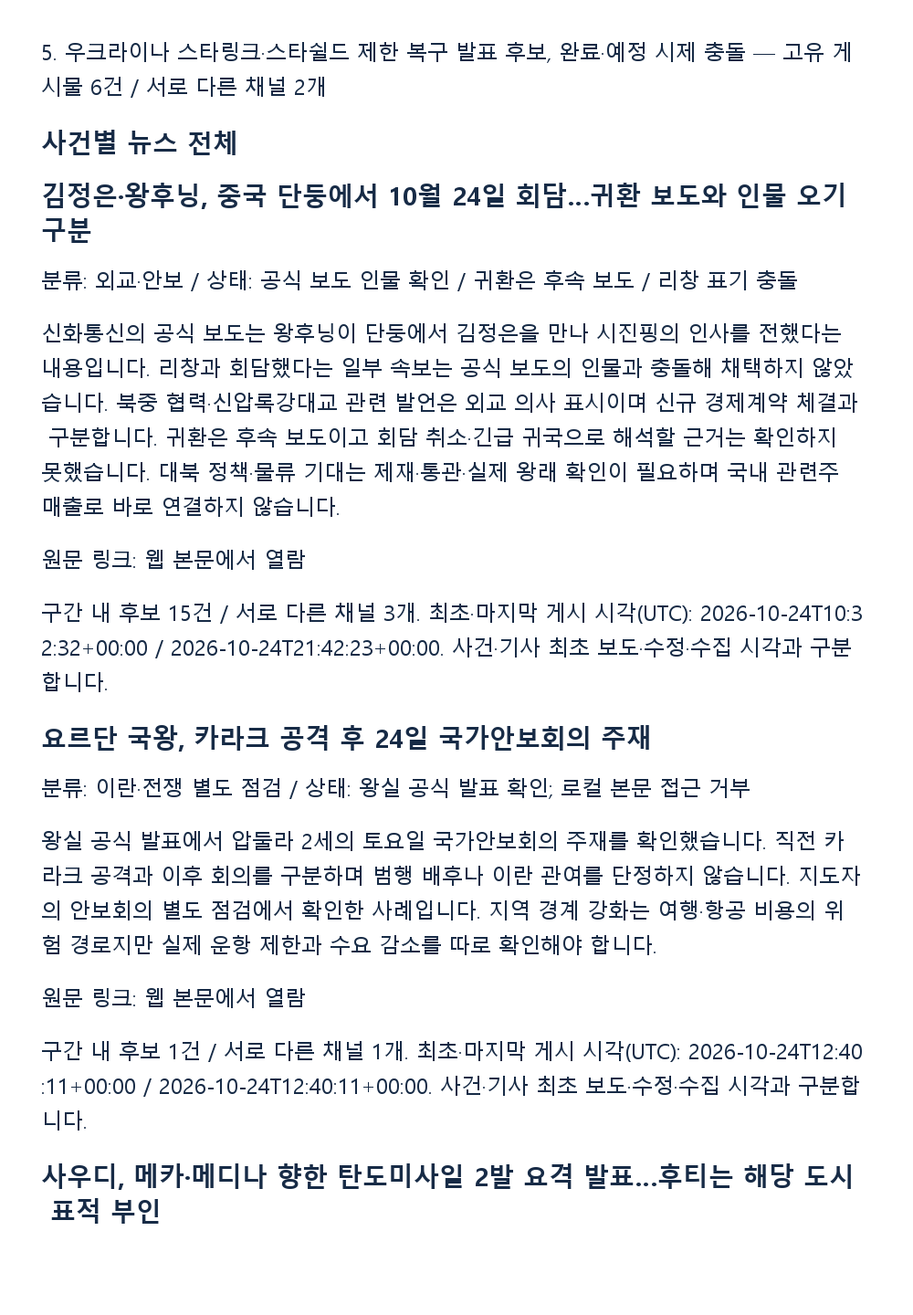
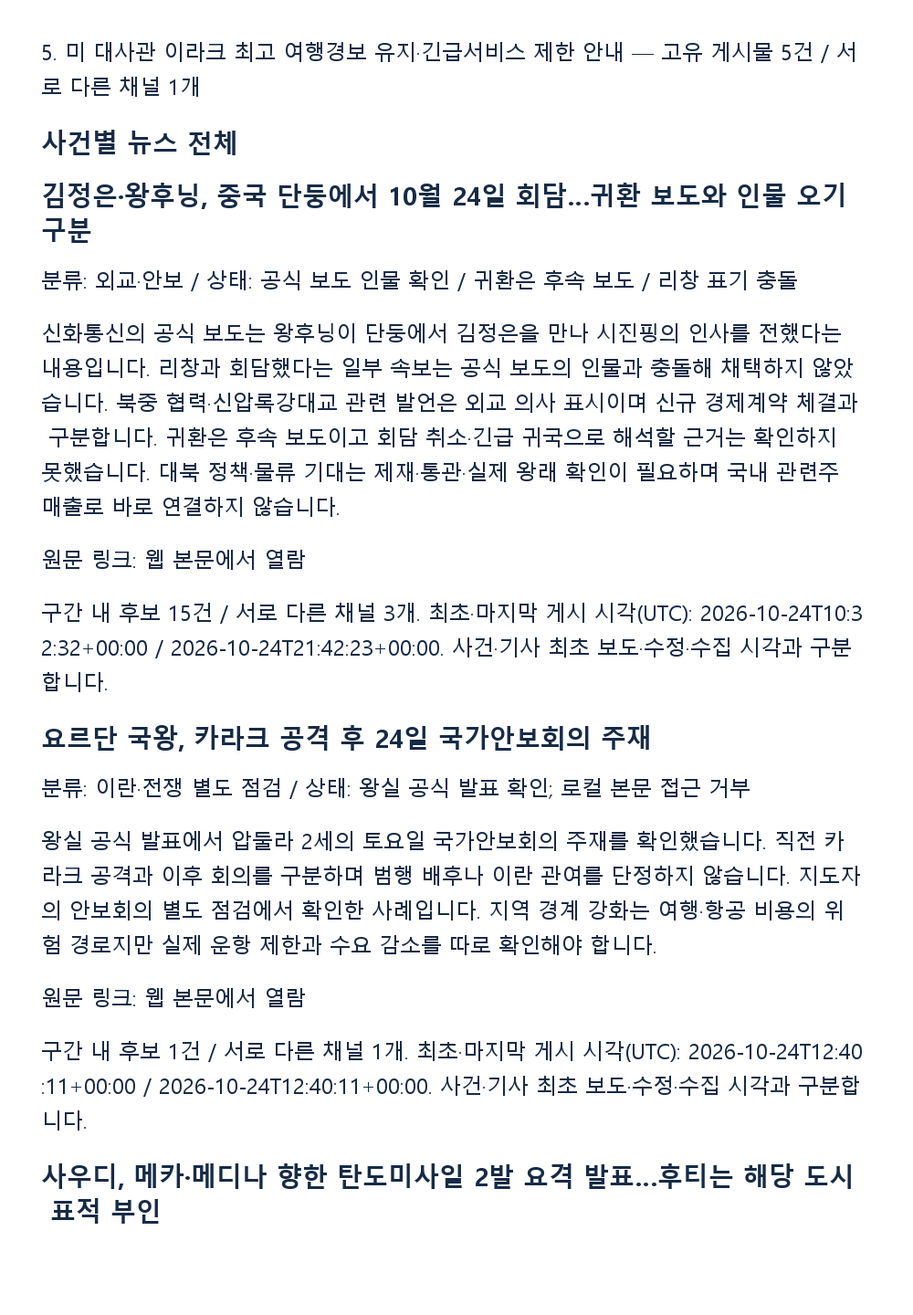
Keep morning repetition rankings scoped to individual events

Changed region(s): [[0.062, 0.0312, 0.93, 0.0938]]

diff --git a/news/2026-10-25-0700/index.html b/news/2026-10-25-0700/index.html
@@ -1,1 +1,1 @@
-<!doctype html><html lang="ko"><meta charset="utf-8"><meta name="viewport" content="width=device-width,initial-scale=1"><title>10월 25일 아침 증시 뉴스</title><style>body{font:17px/1.8 sans-serif;background:#f2f5f9;color:#172b46;margin:0}main{max-width:920px;margin:auto;padding:24px;background:white}p,a,h1,h2,h3{overflow-wrap:anywhere}h1,h2,h3{line-height:1.4}h2{border-top:2px solid #ced9e7;padding-top:25px;margin-top:36px}a{color:#145ca5}img{max-width:100%;height:auto}nav{padding:18px;background:#eaf1fb}small{color:#61718a}</style><main><nav><a href="schedule.html">미국 섹터·날짜순 일정</a> · <a href="../../#news">당일 체크 · 당일 뉴스</a></nav><article id="report"><h1>10월 25일 아침 증시 뉴스</h1><p>분석 구간: 2026-10-24 19:00 초과~2026-10-25 07:00 이하 KST</p><p>작성 시각: 2026-10-25T07:12:48+09:00</p><p>미국 섹터·날짜순 일정 별도 보고서: <a href="https://jsinvest.github.io/dashboard/news/2026-10-25-0700/schedule.html">원문 열기</a></p><h2>핵심 변화</h2><p>북중 회담·요르단 안보회의, 사우디 요격과 후티의 상반된 표적 주장, ESMO 임상 결과와 UN 행사 연기를 정리했습니다. 풍산 목표주가 하향은 이달 초 자료 재안내이며 삼성전자 배당은 가정에 따른 전망입니다.</p><h2>수집·검증 범위</h2><p>설정된 10개 채널 중 9개 접근 가능, 구간 내 고유 게시물 161개를 검토했습니다. 나머지 1개는 두 접근 경로 모두 연락 페이지여서 본문 확인 불가입니다. 원문 URL 30개 중 HTTP 응답 27개·실패 3개이며 응답 성공이 본문·사실 검증 완료를 뜻하지 않습니다. 공적 원문도 접근 거부·짧은 제목·점검 화면을 별도 기록했습니다. 미검토 일정 후보 2,496건을 미검토 상태로 보존합니다. 확인된 일정은 아래와 같고 전체 검토 완료를 뜻하지 않으며, 사용자 요청에 따라 발송을 진행합니다.</p><h2>반복 빈도 TOP5</h2><p>고유 게시물 ID 기준 1회이며 서로 다른 채널 수를 별도 표시합니다. 같은 게시물에 여러 사건이 있으면 사건별로 집계하므로 사건 건수를 더해 전체 게시물 수로 해석하지 않습니다. 보도 빈도는 사실 확정이나 영향 크기와 다릅니다. 넓은 투자 주제 묶음은 순위에서 제외했습니다.</p><p>1. 김정은·왕후닝, 중국 단둥에서 10월 24일 회담…귀환 보도와 인물 오기 구분 — 고유 게시물 15건 / 서로 다른 채널 3개</p><p>2. 미 항모 조지워싱턴 재무장 보도·트럼프 이란 추가 공격 가능성 발언 — 고유 게시물 12건 / 서로 다른 채널 3개</p><p>3. 프랑스 전역 시위·체포 보도, 초기와 후속 집계 구분 — 고유 게시물 7건 / 서로 다른 채널 1개</p><p>4. 예멘 아덴에서 미사일 공격 보도…해안경비대 본부와 해군기지 표적 설명 충돌 — 고유 게시물 6건 / 서로 다른 채널 1개</p><p>5. 우크라이나 스타링크·스타쉴드 제한 복구 발표 후보, 완료·예정 시제 충돌 — 고유 게시물 6건 / 서로 다른 채널 2개</p><h2>사건별 뉴스 전체</h2><h3>김정은·왕후닝, 중국 단둥에서 10월 24일 회담…귀환 보도와 인물 오기 구분</h3><p>분류: 외교·안보 / 상태: 공식 보도 인물 확인 / 귀환은 후속 보도 / 리창 표기 충돌</p><p>신화통신의 공식 보도는 왕후닝이 단둥에서 김정은을 만나 시진핑의 인사를 전했다는 내용입니다. 리창과 회담했다는 일부 속보는 공식 보도의 인물과 충돌해 채택하지 않았습니다. 북중 협력·신압록강대교 관련 발언은 외교 의사 표시이며 신규 경제계약 체결과 구분합니다. 귀환은 후속 보도이고 회담 취소·긴급 귀국으로 해석할 근거는 확인하지 못했습니다. 대북 정책·물류 기대는 제재·통관·실제 왕래 확인이 필요하며 국내 관련주 매출로 바로 연결하지 않습니다.</p><p>원문: <a href="https://www.yonhapnewstv.co.kr:443/news/AKR20261024204711JQW">원문 열기</a> | <a href="https://www.newscj.com/news/articleView.html?idxno=3442815">원문 열기</a> | <a href="https://www.yonhapnewstv.co.kr:443/news/AKR20261024204841auj">원문 열기</a> | <a href="https://www.yonhapnewstv.co.kr:443/news/AKR20261024202630NQl">원문 열기</a> | <a href="https://www.xinhuanet.com/politics/20261024/49bc81b841874e88a46e10ca01faa4c1/c.html">원문 열기</a></p><p>구간 내 후보 15건 / 서로 다른 채널 3개. 최초·마지막 게시 시각(UTC): 2026-10-24T10:32:32+00:00 / 2026-10-24T21:42:23+00:00. 사건·기사 최초 보도·수정·수집 시각과 구분합니다.</p><h3>요르단 국왕, 카라크 공격 후 24일 국가안보회의 주재</h3><p>분류: 이란·전쟁 별도 점검 / 상태: 왕실 공식 발표 확인; 로컬 본문 접근 거부</p><p>왕실 공식 발표에서 압둘라 2세의 토요일 국가안보회의 주재를 확인했습니다. 직전 카라크 공격과 이후 회의를 구분하며 범행 배후나 이란 관여를 단정하지 않습니다. 지도자의 안보회의 별도 점검에서 확인한 사례입니다. 지역 경계 강화는 여행·항공 비용의 위험 경로지만 실제 운항 제한과 수요 감소를 따로 확인해야 합니다.</p><p>원문: <a href="https://www.rhc.jo/en/news/king-chairs-national-security-council-meeting-on-karak-attack">원문 열기</a></p><p>구간 내 후보 1건 / 서로 다른 채널 1개. 최초·마지막 게시 시각(UTC): 2026-10-24T12:40:11+00:00 / 2026-10-24T12:40:11+00:00. 사건·기사 최초 보도·수정·수집 시각과 구분합니다.</p><h3>사우디, 메카·메디나 향한 탄도미사일 2발 요격 발표…후티는 해당 도시 표적 부인</h3><p>분류: 이란·전쟁 별도 점검 / 상태: 사우디 발표와 후티 부인; 독립 피해 검증 미완료</p><p>사우디 민방위는 요격 뒤 잔해가 여러 지역에 떨어졌다고 발표했고, 후티 측은 메카·메디나를 겨냥했다는 설명을 부인했습니다. 요격 발표와 공격자의 표적 설명을 병기하며 어느 쪽 주장도 독립 피해 조사로 대체하지 않습니다. 정유·항공·운송보험 경로에 영향을 줄 수 있으나 에너지 실제 공급 차질 규모는 확인되지 않았습니다. 긴장 완화·운항 정상화 시 위험 프리미엄이 반대로 줄 수 있습니다.</p><p>원문: <a href="https://www.spa.gov.sa/en/N2709301">원문 열기</a> | <a href="https://mobil.aa.com.tr/en/middle-east/houthis-claim-to-have-struck-saudi-airports-oil-facilities-with-missiles-drones/4099758">원문 열기</a></p><p>구간 내 후보 4건 / 서로 다른 채널 1개. 최초·마지막 게시 시각(UTC): 2026-10-24T17:41:46+00:00 / 2026-10-24T19:02:15+00:00. 사건·기사 최초 보도·수정·수집 시각과 구분합니다.</p><h3>후티, 리야드 공항 공격 주장·추가 공격 경고…실제 피해 미확인</h3><p>분류: 이란·전쟁 별도 점검 / 상태: 후티 당사자 주장 / 피해 확인 불가</p><p>리야드 공항을 겨냥했다는 주장과 이후 이용 자제·추가 공격 경고를 같은 사건의 후속으로 묶었습니다. 경고가 실제 새 타격이나 공항 완전 파괴를 뜻하지 않습니다. 공항 터미널 변경 공지는 별도 일정이며 정상 운항 재개 증거가 아닙니다. 항공·관광 영향은 공항과 항공사의 실제 운항 확인이 조건입니다.</p><p>원문: <a href="https://mobil.aa.com.tr/en/middle-east/houthis-claim-to-have-struck-saudi-airports-oil-facilities-with-missiles-drones/4099758">원문 열기</a> | <a href="https://m.aa.com.tr/en/middle-east/riyadh-airport-announces-new-terminal-arrangements-for-domestic-international-flights/4099869">원문 열기</a></p><p>구간 내 후보 3건 / 서로 다른 채널 1개. 최초·마지막 게시 시각(UTC): 2026-10-24T19:02:32+00:00 / 2026-10-24T21:15:11+00:00. 사건·기사 최초 보도·수정·수집 시각과 구분합니다.</p><h3>후티, 얀부 석유시설·담맘 등 사우디 표적 공격 주장</h3><p>분류: 이란·전쟁 별도 점검 / 상태: 당사자 공격 주장 / 생산 차질 미확인</p><p>얀부·담맘·나즈란·카미스무샤이트 관련 주장을 위치별 원문 후보로 보존했습니다. 메카·메디나 요격 및 리야드 공항 사건과 별도입니다. 아람코 시설 실제 생산·수출 중단이나 타격 성공 규모는 독립 검증하지 못했습니다. 정유·해운의 공급 위험 경로는 있으나 주장만으로 생산 손실을 수치화하지 않습니다.</p><p>원문: <a href="https://mobil.aa.com.tr/en/middle-east/houthis-claim-to-have-struck-saudi-airports-oil-facilities-with-missiles-drones/4099758">원문 열기</a></p><p>구간 내 후보 4건 / 서로 다른 채널 2개. 최초·마지막 게시 시각(UTC): 2026-10-24T11:15:39+00:00 / 2026-10-24T19:03:02+00:00. 사건·기사 최초 보도·수정·수집 시각과 구분합니다.</p><h3>예멘 아덴에서 미사일 공격 보도…해안경비대 본부와 해군기지 표적 설명 충돌</h3><p>분류: 이란·전쟁 별도 점검 / 상태: 기관 인용 보도와 후티 주장 / 독립 원문 확인 미완료</p><p>예멘 내무부 인용 속보의 미사일 3발·해안경비대 본부 설명과 후티의 해군기지 공격 주장을 구분했습니다. 사우디 본토 공격과 합산하지 않았고 사상자·피해 규모는 확정하지 않았습니다. 홍해 항로·보험료와 수송 우회가 시장 경로이며 실제 선박 운항·보험 조건을 확인해야 합니다.</p><p>구간 내 후보 6건 / 서로 다른 채널 1개. 최초·마지막 게시 시각(UTC): 2026-10-24T14:00:04+00:00 / 2026-10-24T15:57:44+00:00. 사건·기사 최초 보도·수정·수집 시각과 구분합니다.</p><h3>미 항모 조지워싱턴 재무장 보도·트럼프 이란 추가 공격 가능성 발언</h3><p>분류: 이란·전쟁 별도 점검 / 상태: 취재 보도 / 당사자 발언 / 공격 결정 미확인</p><p>WSJ의 함상 취재 보도는 재무장과 가능한 작전 준비에 관한 내용입니다. 트럼프의 추가 공격 가능성 발언과 최종 공격 결정은 다르므로 공격 승인·개시를 확정하지 않습니다. 이란 대통령의 협상·미국 책임 발언과 이스라엘 측 위협 평가는 당사자 입장입니다. 이번 구간의 방문 축소·회담 취소·긴급 귀국은 새로 확정할 원문을 찾지 못했으며 과거 뉴욕 방문 축소 기사를 오늘 사건으로 재사용하지 않았습니다. 유가·방산·해운 경로는 공식 결정과 실제 타격·공급 차질이 확인 조건입니다.</p><p>원문: <a href="https://finance.yahoo.com/video/aboard-uss-george-washington-rearms-093000274.html">원문 열기</a></p><p>구간 내 후보 12건 / 서로 다른 채널 3개. 최초·마지막 게시 시각(UTC): 2026-10-24T11:15:39+00:00 / 2026-10-24T20:28:04+00:00. 사건·기사 최초 보도·수정·수집 시각과 구분합니다.</p><h3>러시아 옴스크 합성고무 공장 화재·드론 공격 보도</h3><p>분류: 해외 사건 / 상태: 속보·영상 주장 / 원인·피해 미확인</p><p>옴스키카우추크 공장 화재 후보는 이전 톨리야티 사건과 분리했습니다. 드론 공격 원인·실제 MTBE 생산 차질·러시아 전체 공급 손실은 독립 확인 미완료입니다. 합성고무·연료 첨가제 가격 경로는 있으나 생산능력 비중을 실제 손실로 바꾸지 않습니다.</p><p>구간 내 후보 3건 / 서로 다른 채널 2개. 최초·마지막 게시 시각(UTC): 2026-10-24T13:51:45+00:00 / 2026-10-24T15:49:55+00:00. 사건·기사 최초 보도·수정·수집 시각과 구분합니다.</p><h3>프랑스 전역 시위·체포 보도, 초기와 후속 집계 구분</h3><p>분류: 해외 사건 / 상태: 속보 후보 / 규모 독립 검증 미완료</p><p>초기 135명과 후속 약 1천명 체포 수치는 같은 날 갱신된 집계 후보로 보존했고 더하지 않았습니다. 41만명·289개 집회라는 규모도 원문 독립 대조 미완료입니다. 정치·소비·운송 위험 경로를 점검하되 시위 보도를 국내 증시 방향의 단독 근거로 사용하지 않습니다.</p><p>구간 내 후보 7건 / 서로 다른 채널 1개. 최초·마지막 게시 시각(UTC): 2026-10-24T12:09:25+00:00 / 2026-10-24T17:59:04+00:00. 사건·기사 최초 보도·수정·수집 시각과 구분합니다.</p><h3>UN 세계데이터포럼, 리야드 11월 9~12일 개최에서 2027년으로 연기</h3><p>분류: 일정 변경 / 상태: UN 공식 페이지 확인</p><p>UN 통계국 공식 등록 페이지가 제6차 포럼의 연기를 확인합니다. 새 날짜는 추후 발표이며 2027년의 특정 일자를 만들지 않았습니다. 기존 11월 일정의 정상 개최로 안내하지 않습니다. 행사 연기는 투자계약 취소와 같지 않으며 출장·행사 일정의 재확인이 필요합니다.</p><p>원문: <a href="https://unstats.un.org/unsd/undataforum/registration/">원문 열기</a></p><p>구간 내 후보 1건 / 서로 다른 채널 1개. 최초·마지막 게시 시각(UTC): 2026-10-24T10:03:48+00:00 / 2026-10-24T10:03:48+00:00. 사건·기사 최초 보도·수정·수집 시각과 구분합니다.</p><h3>현대차, 미국 판매 차량 41대 리콜 보도…서스펜션·휠 체결 점검</h3><p>분류: 국내 기업 / 상태: 원기사 본문 확인 / NHTSA 독립 대조 미완료</p><p>원기사는 2026년형 엘란트라·투싼 하이브리드·베뉴의 조립 관련 리콜과 26V692·26V693을 제시합니다. 회사 측 사고·화재·부상 보고가 없다는 설명이며 국내 판매 전 차종 문제로 확대하지 않습니다. NHTSA 캠페인 원문 독립 대조는 미완료입니다. 비용·평판 영향은 대상 확대와 실제 조치 규모가 확인 조건입니다.</p><p>원문: <a href="https://www.kpinews.kr/newsView/1065622065184289">원문 열기</a></p><p>구간 내 후보 1건 / 서로 다른 채널 1개. 최초·마지막 게시 시각(UTC): 2026-10-24T14:36:25+00:00 / 2026-10-24T14:36:25+00:00. 사건·기사 최초 보도·수정·수집 시각과 구분합니다.</p><h3>삼성전자 HBM 베이스다이 경쟁 보도…TSMC와 기술·공급 대응 비교</h3><p>분류: 국내 기업 / 상태: 원문 보도 확인 / 회사 원자료 독립 대조 미완료</p><p>기사에서 HBM 베이스다이 제조 경쟁을 다뤘습니다. 기술 대응 기사와 확정 고객 수주·매출 인식을 구분합니다. 국내 메모리·파운드리·패키징의 수혜 여부는 실제 고객 채택, 수율과 납품 확인이 조건이고 경쟁사 대응이 반대 요인입니다.</p><p>원문: <a href="https://www.newsis.com/view/NISX20261023_0003837949">원문 열기</a></p><p>구간 내 후보 1건 / 서로 다른 채널 1개. 최초·마지막 게시 시각(UTC): 2026-10-24T17:51:08+00:00 / 2026-10-24T17:51:08+00:00. 사건·기사 최초 보도·수정·수집 시각과 구분합니다.</p><h3>노바텍의 Polar LNG 자금 관여 논란…한화오션 선박 활용 가능성은 신규 수주 아님</h3><p>분류: 수주공시·계약 구분 / 상태: 원기사 본문 확인 / 자금 관여 설명 충돌; 신규 공시 없음</p><p>원기사는 UAE TechWave를 거친 자금과 경영진 사임·상반된 회사 설명을 다룹니다. Polar LNG는 한국·일본이 검토하는 500억달러 알래스카 LNG 파이프라인과 별개입니다. 64만톤급 부유식 액화 구조물 구매 계획과 기존 쇄빙 LNG선 전용 가능성은 신규 확정 계약이 아닙니다. 제재·수출통제·금융·운항 승인과 실제 계약 공시가 확인 조건이며 계획 중단이 반대 가능성입니다.</p><p>원문: <a href="https://view.asiae.co.kr/article/2026102417363888969">원문 열기</a> | <a href="https://n.news.naver.com/mnews/article/014/0005593846?sid=101">원문 열기</a></p><p>구간 내 후보 2건 / 서로 다른 채널 2개. 최초·마지막 게시 시각(UTC): 2026-10-24T10:21:15+00:00 / 2026-10-24T14:49:15+00:00. 사건·기사 최초 보도·수정·수집 시각과 구분합니다.</p><h3>중국산 도금강판 반덤핑 관세 권고…EU 탄소규제 하류제품 확대는 제안</h3><p>분류: 국내 정책·산업 / 상태: 기사 확인 / 최종 고시·EU 규정 독립 확인 미완료</p><p>기사의 관세율 22.34~33.67%는 무역위원회 권고와 최종 부과를 구분했습니다. 잠정 관세 연장 기한 2027년 1월 11일 보도와 EU의 2028년 확대 제안은 별도 일정 후보입니다. 국내 철강의 가격 방어와 자동차·가전 원가 부담이 상반된 경로이며 정부 최종 고시·EU 확정 규정은 독립 대조 미완료입니다.</p><p>원문: <a href="https://sateconomy.co.kr/news/view/1065616522751180">원문 열기</a></p><p>구간 내 후보 1건 / 서로 다른 채널 1개. 최초·마지막 게시 시각(UTC): 2026-10-24T13:09:49+00:00 / 2026-10-24T13:09:49+00:00. 사건·기사 최초 보도·수정·수집 시각과 구분합니다.</p><h3>에이비엘바이오 ABL001 임상, ORR·PFS 개선과 OS 비유의 결과 함께 공개</h3><p>분류: 임상·바이오 / 상태: 원기사와 공식 발표 목록 확인 / 상세 회사 원문 403</p><p>10월 24일 기사는 COMPANION-002의 ORR 18.0% 대 5.3%, PFS 4.7개월 대 2.6개월을 제시하지만 보정 OS HR 0.85·p=0.53은 통계적으로 유의하지 않습니다. ITT OS 8.9개월 대 9.4개월·HR 1.05·p=0.78도 함께 봐야 합니다. 교차투여와 사후 보정은 결과 해석 제한이며 생존 이익 입증으로 표현하지 않습니다. 회사 공식 목록의 발표 존재는 확인했으나 상세 릴리스 접근은 403이어서 FDA 추가시험 관련 설명까지 독립 확정하지 않았습니다. 추가 시험·규제 경로와 자금 소요가 확인 조건입니다.</p><p>원문: <a href="https://www.newsway.co.kr/news/view?ud=2026102421053579374">원문 열기</a> | <a href="https://compasstherapeutics.gcs-web.com/news-releases/news-release-details/compass-therapeutics-announces-publication-phase-23-companion">원문 열기</a></p><p>구간 내 후보 2건 / 서로 다른 채널 2개. 최초·마지막 게시 시각(UTC): 2026-10-24T13:07:54+00:00 / 2026-10-24T13:15:55+00:00. 사건·기사 최초 보도·수정·수집 시각과 구분합니다.</p><h3>암젠 IMDELLTRA·IMFINZI 병용, 소세포폐암 1차 유지요법 OS 21.1개월 대 12.7개월</h3><p>분류: 임상·바이오 / 상태: 회사 공식 발표 본문 확인</p><p>암젠 24일 공식 발표는 DeLLphi-305 3상 중간분석에서 HR 0.42, 95% CI 0.32~0.54, p&lt;0.001을 제시합니다. 초기 치료 후 진행하지 않은 환자의 유지요법 비교이며 모든 폐암·치료 차수로 일반화하지 않습니다. 회사 발표의 임상 결과와 새로운 적응증 허가를 구분합니다. 국내 바이오 전체 동반 수혜는 직접 제품·기술 연계 확인 없이는 확정하지 않습니다.</p><p>원문: <a href="https://www.amgen.com/newsroom/press-releases/2026/10/imdelltra-in-combination-with-imfinzi-reduced-risk-of-death-by-an-unprecedented-58-in-firstline-extensive-stage-small-cell-lung-cancer">원문 열기</a></p><p>구간 내 후보 2건 / 서로 다른 채널 1개. 최초·마지막 게시 시각(UTC): 2026-10-24T14:38:27+00:00 / 2026-10-24T14:38:33+00:00. 사건·기사 최초 보도·수정·수집 시각과 구분합니다.</p><h3>J&amp;J ERLEADA, 고위험 전립선암 수술 전후 요법의 PROTEUS 하위연구 발표</h3><p>분류: 임상·바이오 / 상태: 회사 원문 웹 확인 / 로컬 접근은 점검 화면</p><p>10월 24일 회사 원문은 408명 하위연구의 EFS HR 0.38(재발·사망 위험 62% 감소)을 제시합니다. 전체생존은 추가 추적 중이며 해당 조기 전립선암 용도는 규제 승인 전입니다. 기존 ASCO 주시험 결과와 이번 하위연구를 중복 신규 성과로 합산하지 않습니다. 장기 추적·안전성·승인이 가치 확인 조건입니다.</p><p>원문: <a href="https://www.jnj.com/media-center/press-releases/johnson-johnson-announces-erleada-apalutamide-treatment-before-and-after-surgery-reduces-risk-of-recurrence-or-death-by-62-versus-surgery-alone-in-high-risk-prostate-cancer">원문 열기</a></p><p>구간 내 후보 1건 / 서로 다른 채널 1개. 최초·마지막 게시 시각(UTC): 2026-10-24T12:59:36+00:00 / 2026-10-24T12:59:36+00:00. 사건·기사 최초 보도·수정·수집 시각과 구분합니다.</p><h3>AZ 방광암 IMFINZI·엔포투맙 병용 결과 발표 후보</h3><p>분류: 임상·바이오 / 상태: 공식 검색 목록과 페이지 스냅샷 차이 / 수치 확인 대기</p><p>회사 미디어센터 검색에 24일 발표가 노출됐으나 실제 페이지 스냅샷은 최신 목록과 달라 상세 원문 검증을 마치지 못했습니다. 재발 49%·사망 42% 감소라는 속보는 확인 대기 수치로 분류하고 임상 성공·허가 확정으로 사용하지 않습니다. 다른 소세포폐암 병용시험과 별개입니다.</p><p>원문: <a href="https://www.astrazeneca.com/media-centre.html?pageNumber=4">원문 열기</a></p><p>구간 내 후보 1건 / 서로 다른 채널 1개. 최초·마지막 게시 시각(UTC): 2026-10-24T15:17:30+00:00 / 2026-10-24T15:17:30+00:00. 사건·기사 최초 보도·수정·수집 시각과 구분합니다.</p><h3>목표주가 변경 한 번에 정리: 풍산 KB 14만원→11만2천원, 이달 초 하향 재안내</h3><p>분류: 목표주가 변경 / 상태: 원기사 인용 / 증권사 보고서 독립 대조 미완료</p><p>이번 기사에 인용된 풍산 목표가는 20% 하향 계산(112000/140000−1)이며 오늘 새 상향으로 취급하지 않습니다. 3분기 방산 매출 3500억~3680억원은 증권사 추정이고 회사 목표 4153억원과 구분합니다. 납품·검수 지연과 4분기 인식 전망은 계약 취소나 실적 확정이 아닙니다. 이번 원문 검토에서 새로 검증한 목표주가 상향 목록을 임의로 만들지 않았습니다. 개별 종목 카톡을 보내지 않고 이 절로 묶었습니다.</p><p>원문: <a href="https://n.news.naver.com/article/215/0001270343">원문 열기</a></p><p>구간 내 후보 1건 / 서로 다른 채널 1개. 최초·마지막 게시 시각(UTC): 2026-10-24T12:05:46+00:00 / 2026-10-24T12:05:46+00:00. 사건·기사 최초 보도·수정·수집 시각과 구분합니다.</p><h3>삼성전자 2027년 주당 배당 1만2천원 전망, 회사 확정 배당 아님</h3><p>분류: 전망과 확정 구분 / 상태: 원기사 확인 / 분석가 가정</p><p>25일 01:00 기사·03:41 수정 보도의 수치는 유튜브 출연 분석가의 실적·배당 가정입니다. 주가 21만원 가정 수익률과 함께 제시된 전망을 확정 지급액·수익률로 사용하지 않습니다. 회사의 배당 정책·실적·이사회 결정이 확인 조건이고 실적·환원 비율이 달라지면 전망도 바뀝니다.</p><p>원문: <a href="https://www.newsis.com/view/NISX20261024_0003839410">원문 열기</a></p><p>구간 내 후보 1건 / 서로 다른 채널 1개. 최초·마지막 게시 시각(UTC): 2026-10-24T17:51:08+00:00 / 2026-10-24T17:51:08+00:00. 사건·기사 최초 보도·수정·수집 시각과 구분합니다.</p><h3>미래에셋의 스페이스X 투자·국내 증시 자금 흐름 보도, 평가와 실제 보유 구분</h3><p>분류: 자금 흐름·검증 대기 / 상태: 기사 확인 / 공식 통계·구조 추가 대조 필요</p><p>국내 투자자 손실·외국인 및 기관 매도·레버리지 ETF 순매수 기사는 기간이 다른 누적·평가 자료입니다. SOXL 매수 규모는 상승 확률이나 순이익의 증거가 아닙니다. 미래에셋 관련 보유 0주·책임 논란 기사도 투자 구조와 규제 판단 원문 독립 확인 전 회사 위법 확정으로 표현하지 않습니다. 한국은행 경상수지·저PBR 표시제 기사는 공식 통계·규정 추가 대조가 필요합니다.</p><p>원문: <a href="https://n.news.naver.com/article/003/0014276027">원문 열기</a> | <a href="https://n.news.naver.com/article/421/0009247850">원문 열기</a> | <a href="https://www.news2day.co.kr/article/20261024500010">원문 열기</a> | <a href="https://n.news.naver.com/article/421/0009247853">원문 열기</a> | <a href="https://n.news.naver.com/article/001/0016398359">원문 열기</a> | <a href="https://n.news.naver.com/article/001/0016398395">원문 열기</a> | <a href="https://www.dt.co.kr/article/12090986?ref=naver">원문 열기</a> | <a href="https://n.news.naver.com/article/001/0016398398">원문 열기</a></p><p>구간 내 후보 4건 / 서로 다른 채널 1개. 최초·마지막 게시 시각(UTC): 2026-10-24T20:55:35+00:00 / 2026-10-24T21:15:18+00:00. 사건·기사 최초 보도·수정·수집 시각과 구분합니다.</p><h3>AWS, 2027년까지 클라우드 용량 매진 보도…CEO 발언 원문 접근 실패</h3><p>분류: 해외 기업 / 상태: 원문 접근 실패 / 2차 해설</p><p>Reuters URL 접근에 실패해 2027년까지 매진이라는 CEO 발언을 독립 확인하지 못했습니다. 6개월 컴퓨팅 공급 부족 주장과 골드만 AI 포지션 축소 해설 역시 단일 속보·2차 기사입니다. AI 수요 기대와 투자 축소 위험을 병기하되 확정 수주·매출이나 반도체 전체 실적 상승으로 사용하지 않습니다.</p><p>원문: <a href="https://wallstreetcn.com/articles/3784388#from=ios">원문 열기</a> | <a href="https://www.reuters.com/business/retail-consumer/amazon-cloud-capacity-sold-out-through-2027-ceo-jassy-says-2026-10-23/">원문 열기</a></p><p>구간 내 후보 3건 / 서로 다른 채널 2개. 최초·마지막 게시 시각(UTC): 2026-10-24T11:06:19+00:00 / 2026-10-24T14:54:09+00:00. 사건·기사 최초 보도·수정·수집 시각과 구분합니다.</p><h3>기타 확인 대기: 디지털자산 제도·통신 제한·사이버 사고·인수 후보</h3><p>분류: 추가 확인 큐 / 상태: 속보 후보 / 공식 원문 검증 미완료</p><p>스테이블코인 외환법 개정은 연내 추진 보도이며 통과법이 아닙니다. 스타링크 제한 해제는 실행·예정 시제가 섞여 공식 공지 확인 전 전면 해제로 확정하지 않습니다. Swell 입출금 중단과 Keystone 고객정보 사고는 서로 다른 사건이고 개인키·전체 자산 유출로 확대하지 않습니다. Couche-Tard의 Cumberland 제안은 인수 완료가 아니며 튀르키예 드론 생산 목표는 신규 수주가 아닙니다. 젠슨 황의 카자흐스탄 회동, 이스라엘 선거 여론조사·정치 발언도 원문 확인 대기로 보존했습니다.</p><p>구간 내 후보 15건 / 서로 다른 채널 2개. 최초·마지막 게시 시각(UTC): 2026-10-24T11:15:39+00:00 / 2026-10-24T20:21:12+00:00. 사건·기사 최초 보도·수정·수집 시각과 구분합니다.</p><h3>메르츠 독일 총리의 러시아 위협 발언, 동일 발언 재인용</h3><p>분류: 외교·안보 / 상태: 발언 재인용 / 공식 원문 확인 대기</p><p>서로 다른 속보 3개는 러시아가 독일의 자유·안정을 위협한다는 같은 발언 후보입니다. 새 정책·제재 결정과 구분하며 공식 연설 원문 대조 미완료입니다. 기존 방한 일정과 이번 발언은 별개입니다.</p><p>구간 내 후보 3건 / 서로 다른 채널 1개. 최초·마지막 게시 시각(UTC): 2026-10-24T10:10:33+00:00 / 2026-10-24T10:26:37+00:00. 사건·기사 최초 보도·수정·수집 시각과 구분합니다.</p><h3>미 대사관 이라크 최고 여행경보 유지·긴급서비스 제한 안내</h3><p>분류: 외교·안보 / 상태: 대사관 인용 속보 / 신규 상향 아님</p><p>최고 여행경보를 유지한다는 안내이며 이번에 처음 상향됐다고 표현하지 않습니다. 관련 3개 속보는 같은 경보의 설명입니다. 중동 여러 국가 경보와 베이루트 특정 지역 주의보 역시 강제 철수 명령으로 바꾸지 않았습니다. 최신 대사관 원문 확인이 필요합니다.</p><p>구간 내 후보 5건 / 서로 다른 채널 1개. 최초·마지막 게시 시각(UTC): 2026-10-24T12:38:59+00:00 / 2026-10-24T13:44:56+00:00. 사건·기사 최초 보도·수정·수집 시각과 구분합니다.</p><h3>우크라이나 스타링크·스타쉴드 제한 복구 발표 후보, 완료·예정 시제 충돌</h3><p>분류: 외교·안보 / 상태: 당사자 발표 인용 / 완료 범위 확인 대기</p><p>국방부 복구 발표 인용과 젤렌스키의 완전 해제·해제할 것이라는 속보가 섞여 있습니다. 동일 서비스 복구 사건의 후속으로 보존하되 모든 단말·서비스 정상화를 확인했다고 하지 않습니다. 실제 운용·공식 공지 대조가 필요하며 스타쉴드의 미국 정부 통제 문제와도 구분합니다.</p><p>구간 내 후보 6건 / 서로 다른 채널 2개. 최초·마지막 게시 시각(UTC): 2026-10-24T11:15:39+00:00 / 2026-10-24T20:21:12+00:00. 사건·기사 최초 보도·수정·수집 시각과 구분합니다.</p><h2>공개 일정 요약</h2><p>2026-10-25 리야드 공항 터미널 변경 공지 보도. UN 세계데이터포럼의 종전 2026-11-09~12 일정은 2027년으로 연기됐고 새 날짜는 미정입니다. 날짜순 전체 이월 검토표와 IR·재공시 감사 기록은 미국 섹터·일정 별도 보고서에 정리했습니다. 미검토 일정 후보 2,496건을 미검토 상태로 보존합니다. 확인된 일정은 아래와 같고 전체 검토 완료를 뜻하지 않으며, 사용자 요청에 따라 발송을 진행합니다.</p><h2>검증 한계</h2><p>전체 수집 게시물을 검토한 것과 모든 사실의 독립 검증 완료는 다릅니다. 단신·시세·생활소식 및 원천 미확인 후보는 검토 장부에 남겼습니다. 제목만 응답한 공식 페이지·본문 접근 거부·수정 시점이 다른 페이지를 완전한 본문 검증으로 세지 않았습니다. 기존 미발송 11개 판은 이번 판 전송으로 해결됐다고 처리하지 않으며, 독립 분석 완료 cutoff를 임의로 높이지 않습니다.</p></article><h2>전체 본문 PNG</h2><img src="news_01.png" alt="뉴스 본문 1" loading="lazy"><img src="news_02.png" alt="뉴스 본문 2" loading="lazy"><img src="news_03.png" alt="뉴스 본문 3" loading="lazy"><img src="news_04.png" alt="뉴스 본문 4" loading="lazy"><img src="news_05.png" alt="뉴스 본문 5" loading="lazy"><img src="news_06.png" alt="뉴스 본문 6" loading="lazy"><img src="news_07.png" alt="뉴스 본문 7" loading="lazy"><img src="news_08.png" alt="뉴스 본문 8" loading="lazy"><img src="news_09.png" alt="뉴스 본문 9" loading="lazy"><img src="news_10.png" alt="뉴스 본문 10" loading="lazy"><img src="news_11.png" alt="뉴스 본문 11" loading="lazy"><img src="news_12.png" alt="뉴스 본문 12" loading="lazy"></main></html>
+<!doctype html><html lang="ko"><meta charset="utf-8"><meta name="viewport" content="width=device-width,initial-scale=1"><title>10월 25일 아침 증시 뉴스</title><style>body{font:17px/1.8 sans-serif;background:#f2f5f9;color:#172b46;margin:0}main{max-width:920px;margin:auto;padding:24px;background:white}p,a,h1,h2,h3{overflow-wrap:anywhere}h1,h2,h3{line-height:1.4}h2{border-top:2px solid #ced9e7;padding-top:25px;margin-top:36px}a{color:#145ca5}img{max-width:100%;height:auto}nav{padding:18px;background:#eaf1fb}small{color:#61718a}</style><main><nav><a href="schedule.html">미국 섹터·날짜순 일정</a> · <a href="../../#news">당일 체크 · 당일 뉴스</a></nav><article id="report"><h1>10월 25일 아침 증시 뉴스</h1><p>분석 구간: 2026-10-24 19:00 초과~2026-10-25 07:00 이하 KST</p><p>작성 시각: 2026-10-25T07:16:59+09:00</p><p>미국 섹터·날짜순 일정 별도 보고서: <a href="https://jsinvest.github.io/dashboard/news/2026-10-25-0700/schedule.html">원문 열기</a></p><h2>핵심 변화</h2><p>북중 회담·요르단 안보회의, 사우디 요격과 후티의 상반된 표적 주장, ESMO 임상 결과와 UN 행사 연기를 정리했습니다. 풍산 목표주가 하향은 이달 초 자료 재안내이며 삼성전자 배당은 가정에 따른 전망입니다.</p><h2>수집·검증 범위</h2><p>설정된 10개 채널 중 9개 접근 가능, 구간 내 고유 게시물 161개를 검토했습니다. 나머지 1개는 두 접근 경로 모두 연락 페이지여서 본문 확인 불가입니다. 원문 URL 30개 중 HTTP 응답 27개·실패 3개이며 응답 성공이 본문·사실 검증 완료를 뜻하지 않습니다. 공적 원문도 접근 거부·짧은 제목·점검 화면을 별도 기록했습니다. 미검토 일정 후보 2,496건을 미검토 상태로 보존합니다. 확인된 일정은 아래와 같고 전체 검토 완료를 뜻하지 않으며, 사용자 요청에 따라 발송을 진행합니다.</p><h2>반복 빈도 TOP5</h2><p>고유 게시물 ID 기준 1회이며 서로 다른 채널 수를 별도 표시합니다. 같은 게시물에 여러 사건이 있으면 사건별로 집계하므로 사건 건수를 더해 전체 게시물 수로 해석하지 않습니다. 보도 빈도는 사실 확정이나 영향 크기와 다릅니다. 넓은 투자 주제 묶음은 순위에서 제외했습니다.</p><p>1. 김정은·왕후닝, 중국 단둥에서 10월 24일 회담…귀환 보도와 인물 오기 구분 — 고유 게시물 15건 / 서로 다른 채널 3개</p><p>2. 프랑스 전역 시위·체포 보도, 초기와 후속 집계 구분 — 고유 게시물 7건 / 서로 다른 채널 1개</p><p>3. 예멘 아덴에서 미사일 공격 보도…해안경비대 본부와 해군기지 표적 설명 충돌 — 고유 게시물 6건 / 서로 다른 채널 1개</p><p>4. 우크라이나 스타링크·스타쉴드 제한 복구 발표 후보, 완료·예정 시제 충돌 — 고유 게시물 6건 / 서로 다른 채널 2개</p><p>5. 미 대사관 이라크 최고 여행경보 유지·긴급서비스 제한 안내 — 고유 게시물 5건 / 서로 다른 채널 1개</p><h2>사건별 뉴스 전체</h2><h3>김정은·왕후닝, 중국 단둥에서 10월 24일 회담…귀환 보도와 인물 오기 구분</h3><p>분류: 외교·안보 / 상태: 공식 보도 인물 확인 / 귀환은 후속 보도 / 리창 표기 충돌</p><p>신화통신의 공식 보도는 왕후닝이 단둥에서 김정은을 만나 시진핑의 인사를 전했다는 내용입니다. 리창과 회담했다는 일부 속보는 공식 보도의 인물과 충돌해 채택하지 않았습니다. 북중 협력·신압록강대교 관련 발언은 외교 의사 표시이며 신규 경제계약 체결과 구분합니다. 귀환은 후속 보도이고 회담 취소·긴급 귀국으로 해석할 근거는 확인하지 못했습니다. 대북 정책·물류 기대는 제재·통관·실제 왕래 확인이 필요하며 국내 관련주 매출로 바로 연결하지 않습니다.</p><p>원문: <a href="https://www.yonhapnewstv.co.kr:443/news/AKR20261024204711JQW">원문 열기</a> | <a href="https://www.newscj.com/news/articleView.html?idxno=3442815">원문 열기</a> | <a href="https://www.yonhapnewstv.co.kr:443/news/AKR20261024204841auj">원문 열기</a> | <a href="https://www.yonhapnewstv.co.kr:443/news/AKR20261024202630NQl">원문 열기</a> | <a href="https://www.xinhuanet.com/politics/20261024/49bc81b841874e88a46e10ca01faa4c1/c.html">원문 열기</a></p><p>구간 내 후보 15건 / 서로 다른 채널 3개. 최초·마지막 게시 시각(UTC): 2026-10-24T10:32:32+00:00 / 2026-10-24T21:42:23+00:00. 사건·기사 최초 보도·수정·수집 시각과 구분합니다.</p><h3>요르단 국왕, 카라크 공격 후 24일 국가안보회의 주재</h3><p>분류: 이란·전쟁 별도 점검 / 상태: 왕실 공식 발표 확인; 로컬 본문 접근 거부</p><p>왕실 공식 발표에서 압둘라 2세의 토요일 국가안보회의 주재를 확인했습니다. 직전 카라크 공격과 이후 회의를 구분하며 범행 배후나 이란 관여를 단정하지 않습니다. 지도자의 안보회의 별도 점검에서 확인한 사례입니다. 지역 경계 강화는 여행·항공 비용의 위험 경로지만 실제 운항 제한과 수요 감소를 따로 확인해야 합니다.</p><p>원문: <a href="https://www.rhc.jo/en/news/king-chairs-national-security-council-meeting-on-karak-attack">원문 열기</a></p><p>구간 내 후보 1건 / 서로 다른 채널 1개. 최초·마지막 게시 시각(UTC): 2026-10-24T12:40:11+00:00 / 2026-10-24T12:40:11+00:00. 사건·기사 최초 보도·수정·수집 시각과 구분합니다.</p><h3>사우디, 메카·메디나 향한 탄도미사일 2발 요격 발표…후티는 해당 도시 표적 부인</h3><p>분류: 이란·전쟁 별도 점검 / 상태: 사우디 발표와 후티 부인; 독립 피해 검증 미완료</p><p>사우디 민방위는 요격 뒤 잔해가 여러 지역에 떨어졌다고 발표했고, 후티 측은 메카·메디나를 겨냥했다는 설명을 부인했습니다. 요격 발표와 공격자의 표적 설명을 병기하며 어느 쪽 주장도 독립 피해 조사로 대체하지 않습니다. 정유·항공·운송보험 경로에 영향을 줄 수 있으나 에너지 실제 공급 차질 규모는 확인되지 않았습니다. 긴장 완화·운항 정상화 시 위험 프리미엄이 반대로 줄 수 있습니다.</p><p>원문: <a href="https://www.spa.gov.sa/en/N2709301">원문 열기</a> | <a href="https://mobil.aa.com.tr/en/middle-east/houthis-claim-to-have-struck-saudi-airports-oil-facilities-with-missiles-drones/4099758">원문 열기</a></p><p>구간 내 후보 4건 / 서로 다른 채널 1개. 최초·마지막 게시 시각(UTC): 2026-10-24T17:41:46+00:00 / 2026-10-24T19:02:15+00:00. 사건·기사 최초 보도·수정·수집 시각과 구분합니다.</p><h3>후티, 리야드 공항 공격 주장·추가 공격 경고…실제 피해 미확인</h3><p>분류: 이란·전쟁 별도 점검 / 상태: 후티 당사자 주장 / 피해 확인 불가</p><p>리야드 공항을 겨냥했다는 주장과 이후 이용 자제·추가 공격 경고를 같은 사건의 후속으로 묶었습니다. 경고가 실제 새 타격이나 공항 완전 파괴를 뜻하지 않습니다. 공항 터미널 변경 공지는 별도 일정이며 정상 운항 재개 증거가 아닙니다. 항공·관광 영향은 공항과 항공사의 실제 운항 확인이 조건입니다.</p><p>원문: <a href="https://mobil.aa.com.tr/en/middle-east/houthis-claim-to-have-struck-saudi-airports-oil-facilities-with-missiles-drones/4099758">원문 열기</a> | <a href="https://m.aa.com.tr/en/middle-east/riyadh-airport-announces-new-terminal-arrangements-for-domestic-international-flights/4099869">원문 열기</a></p><p>구간 내 후보 3건 / 서로 다른 채널 1개. 최초·마지막 게시 시각(UTC): 2026-10-24T19:02:32+00:00 / 2026-10-24T21:15:11+00:00. 사건·기사 최초 보도·수정·수집 시각과 구분합니다.</p><h3>후티, 얀부 석유시설·담맘 등 사우디 표적 공격 주장</h3><p>분류: 이란·전쟁 별도 점검 / 상태: 당사자 공격 주장 / 생산 차질 미확인</p><p>얀부·담맘·나즈란·카미스무샤이트 관련 주장을 위치별 원문 후보로 보존했습니다. 메카·메디나 요격 및 리야드 공항 사건과 별도입니다. 아람코 시설 실제 생산·수출 중단이나 타격 성공 규모는 독립 검증하지 못했습니다. 정유·해운의 공급 위험 경로는 있으나 주장만으로 생산 손실을 수치화하지 않습니다.</p><p>원문: <a href="https://mobil.aa.com.tr/en/middle-east/houthis-claim-to-have-struck-saudi-airports-oil-facilities-with-missiles-drones/4099758">원문 열기</a></p><p>구간 내 후보 4건 / 서로 다른 채널 2개. 최초·마지막 게시 시각(UTC): 2026-10-24T11:15:39+00:00 / 2026-10-24T19:03:02+00:00. 사건·기사 최초 보도·수정·수집 시각과 구분합니다.</p><h3>예멘 아덴에서 미사일 공격 보도…해안경비대 본부와 해군기지 표적 설명 충돌</h3><p>분류: 이란·전쟁 별도 점검 / 상태: 기관 인용 보도와 후티 주장 / 독립 원문 확인 미완료</p><p>예멘 내무부 인용 속보의 미사일 3발·해안경비대 본부 설명과 후티의 해군기지 공격 주장을 구분했습니다. 사우디 본토 공격과 합산하지 않았고 사상자·피해 규모는 확정하지 않았습니다. 홍해 항로·보험료와 수송 우회가 시장 경로이며 실제 선박 운항·보험 조건을 확인해야 합니다.</p><p>구간 내 후보 6건 / 서로 다른 채널 1개. 최초·마지막 게시 시각(UTC): 2026-10-24T14:00:04+00:00 / 2026-10-24T15:57:44+00:00. 사건·기사 최초 보도·수정·수집 시각과 구분합니다.</p><h3>미 항모 조지워싱턴 재무장 보도·트럼프 이란 추가 공격 가능성 발언</h3><p>분류: 이란·전쟁 별도 점검 / 상태: 취재 보도 / 당사자 발언 / 공격 결정 미확인</p><p>WSJ의 함상 취재 보도는 재무장과 가능한 작전 준비에 관한 내용입니다. 트럼프의 추가 공격 가능성 발언과 최종 공격 결정은 다르므로 공격 승인·개시를 확정하지 않습니다. 이란 대통령의 협상·미국 책임 발언과 이스라엘 측 위협 평가는 당사자 입장입니다. 이번 구간의 방문 축소·회담 취소·긴급 귀국은 새로 확정할 원문을 찾지 못했으며 과거 뉴욕 방문 축소 기사를 오늘 사건으로 재사용하지 않았습니다. 유가·방산·해운 경로는 공식 결정과 실제 타격·공급 차질이 확인 조건입니다.</p><p>원문: <a href="https://finance.yahoo.com/video/aboard-uss-george-washington-rearms-093000274.html">원문 열기</a></p><p>구간 내 후보 12건 / 서로 다른 채널 3개. 최초·마지막 게시 시각(UTC): 2026-10-24T11:15:39+00:00 / 2026-10-24T20:28:04+00:00. 사건·기사 최초 보도·수정·수집 시각과 구분합니다.</p><h3>러시아 옴스크 합성고무 공장 화재·드론 공격 보도</h3><p>분류: 해외 사건 / 상태: 속보·영상 주장 / 원인·피해 미확인</p><p>옴스키카우추크 공장 화재 후보는 이전 톨리야티 사건과 분리했습니다. 드론 공격 원인·실제 MTBE 생산 차질·러시아 전체 공급 손실은 독립 확인 미완료입니다. 합성고무·연료 첨가제 가격 경로는 있으나 생산능력 비중을 실제 손실로 바꾸지 않습니다.</p><p>구간 내 후보 3건 / 서로 다른 채널 2개. 최초·마지막 게시 시각(UTC): 2026-10-24T13:51:45+00:00 / 2026-10-24T15:49:55+00:00. 사건·기사 최초 보도·수정·수집 시각과 구분합니다.</p><h3>프랑스 전역 시위·체포 보도, 초기와 후속 집계 구분</h3><p>분류: 해외 사건 / 상태: 속보 후보 / 규모 독립 검증 미완료</p><p>초기 135명과 후속 약 1천명 체포 수치는 같은 날 갱신된 집계 후보로 보존했고 더하지 않았습니다. 41만명·289개 집회라는 규모도 원문 독립 대조 미완료입니다. 정치·소비·운송 위험 경로를 점검하되 시위 보도를 국내 증시 방향의 단독 근거로 사용하지 않습니다.</p><p>구간 내 후보 7건 / 서로 다른 채널 1개. 최초·마지막 게시 시각(UTC): 2026-10-24T12:09:25+00:00 / 2026-10-24T17:59:04+00:00. 사건·기사 최초 보도·수정·수집 시각과 구분합니다.</p><h3>UN 세계데이터포럼, 리야드 11월 9~12일 개최에서 2027년으로 연기</h3><p>분류: 일정 변경 / 상태: UN 공식 페이지 확인</p><p>UN 통계국 공식 등록 페이지가 제6차 포럼의 연기를 확인합니다. 새 날짜는 추후 발표이며 2027년의 특정 일자를 만들지 않았습니다. 기존 11월 일정의 정상 개최로 안내하지 않습니다. 행사 연기는 투자계약 취소와 같지 않으며 출장·행사 일정의 재확인이 필요합니다.</p><p>원문: <a href="https://unstats.un.org/unsd/undataforum/registration/">원문 열기</a></p><p>구간 내 후보 1건 / 서로 다른 채널 1개. 최초·마지막 게시 시각(UTC): 2026-10-24T10:03:48+00:00 / 2026-10-24T10:03:48+00:00. 사건·기사 최초 보도·수정·수집 시각과 구분합니다.</p><h3>현대차, 미국 판매 차량 41대 리콜 보도…서스펜션·휠 체결 점검</h3><p>분류: 국내 기업 / 상태: 원기사 본문 확인 / NHTSA 독립 대조 미완료</p><p>원기사는 2026년형 엘란트라·투싼 하이브리드·베뉴의 조립 관련 리콜과 26V692·26V693을 제시합니다. 회사 측 사고·화재·부상 보고가 없다는 설명이며 국내 판매 전 차종 문제로 확대하지 않습니다. NHTSA 캠페인 원문 독립 대조는 미완료입니다. 비용·평판 영향은 대상 확대와 실제 조치 규모가 확인 조건입니다.</p><p>원문: <a href="https://www.kpinews.kr/newsView/1065622065184289">원문 열기</a></p><p>구간 내 후보 1건 / 서로 다른 채널 1개. 최초·마지막 게시 시각(UTC): 2026-10-24T14:36:25+00:00 / 2026-10-24T14:36:25+00:00. 사건·기사 최초 보도·수정·수집 시각과 구분합니다.</p><h3>삼성전자 HBM 베이스다이 경쟁 보도…TSMC와 기술·공급 대응 비교</h3><p>분류: 국내 기업 / 상태: 원문 보도 확인 / 회사 원자료 독립 대조 미완료</p><p>기사에서 HBM 베이스다이 제조 경쟁을 다뤘습니다. 기술 대응 기사와 확정 고객 수주·매출 인식을 구분합니다. 국내 메모리·파운드리·패키징의 수혜 여부는 실제 고객 채택, 수율과 납품 확인이 조건이고 경쟁사 대응이 반대 요인입니다.</p><p>원문: <a href="https://www.newsis.com/view/NISX20261023_0003837949">원문 열기</a></p><p>구간 내 후보 1건 / 서로 다른 채널 1개. 최초·마지막 게시 시각(UTC): 2026-10-24T17:51:08+00:00 / 2026-10-24T17:51:08+00:00. 사건·기사 최초 보도·수정·수집 시각과 구분합니다.</p><h3>노바텍의 Polar LNG 자금 관여 논란…한화오션 선박 활용 가능성은 신규 수주 아님</h3><p>분류: 수주공시·계약 구분 / 상태: 원기사 본문 확인 / 자금 관여 설명 충돌; 신규 공시 없음</p><p>원기사는 UAE TechWave를 거친 자금과 경영진 사임·상반된 회사 설명을 다룹니다. Polar LNG는 한국·일본이 검토하는 500억달러 알래스카 LNG 파이프라인과 별개입니다. 64만톤급 부유식 액화 구조물 구매 계획과 기존 쇄빙 LNG선 전용 가능성은 신규 확정 계약이 아닙니다. 제재·수출통제·금융·운항 승인과 실제 계약 공시가 확인 조건이며 계획 중단이 반대 가능성입니다.</p><p>원문: <a href="https://view.asiae.co.kr/article/2026102417363888969">원문 열기</a> | <a href="https://n.news.naver.com/mnews/article/014/0005593846?sid=101">원문 열기</a></p><p>구간 내 후보 2건 / 서로 다른 채널 2개. 최초·마지막 게시 시각(UTC): 2026-10-24T10:21:15+00:00 / 2026-10-24T14:49:15+00:00. 사건·기사 최초 보도·수정·수집 시각과 구분합니다.</p><h3>중국산 도금강판 반덤핑 관세 권고…EU 탄소규제 하류제품 확대는 제안</h3><p>분류: 국내 정책·산업 / 상태: 기사 확인 / 최종 고시·EU 규정 독립 확인 미완료</p><p>기사의 관세율 22.34~33.67%는 무역위원회 권고와 최종 부과를 구분했습니다. 잠정 관세 연장 기한 2027년 1월 11일 보도와 EU의 2028년 확대 제안은 별도 일정 후보입니다. 국내 철강의 가격 방어와 자동차·가전 원가 부담이 상반된 경로이며 정부 최종 고시·EU 확정 규정은 독립 대조 미완료입니다.</p><p>원문: <a href="https://sateconomy.co.kr/news/view/1065616522751180">원문 열기</a></p><p>구간 내 후보 1건 / 서로 다른 채널 1개. 최초·마지막 게시 시각(UTC): 2026-10-24T13:09:49+00:00 / 2026-10-24T13:09:49+00:00. 사건·기사 최초 보도·수정·수집 시각과 구분합니다.</p><h3>에이비엘바이오 ABL001 임상, ORR·PFS 개선과 OS 비유의 결과 함께 공개</h3><p>분류: 임상·바이오 / 상태: 원기사와 공식 발표 목록 확인 / 상세 회사 원문 403</p><p>10월 24일 기사는 COMPANION-002의 ORR 18.0% 대 5.3%, PFS 4.7개월 대 2.6개월을 제시하지만 보정 OS HR 0.85·p=0.53은 통계적으로 유의하지 않습니다. ITT OS 8.9개월 대 9.4개월·HR 1.05·p=0.78도 함께 봐야 합니다. 교차투여와 사후 보정은 결과 해석 제한이며 생존 이익 입증으로 표현하지 않습니다. 회사 공식 목록의 발표 존재는 확인했으나 상세 릴리스 접근은 403이어서 FDA 추가시험 관련 설명까지 독립 확정하지 않았습니다. 추가 시험·규제 경로와 자금 소요가 확인 조건입니다.</p><p>원문: <a href="https://www.newsway.co.kr/news/view?ud=2026102421053579374">원문 열기</a> | <a href="https://compasstherapeutics.gcs-web.com/news-releases/news-release-details/compass-therapeutics-announces-publication-phase-23-companion">원문 열기</a></p><p>구간 내 후보 2건 / 서로 다른 채널 2개. 최초·마지막 게시 시각(UTC): 2026-10-24T13:07:54+00:00 / 2026-10-24T13:15:55+00:00. 사건·기사 최초 보도·수정·수집 시각과 구분합니다.</p><h3>암젠 IMDELLTRA·IMFINZI 병용, 소세포폐암 1차 유지요법 OS 21.1개월 대 12.7개월</h3><p>분류: 임상·바이오 / 상태: 회사 공식 발표 본문 확인</p><p>암젠 24일 공식 발표는 DeLLphi-305 3상 중간분석에서 HR 0.42, 95% CI 0.32~0.54, p&lt;0.001을 제시합니다. 초기 치료 후 진행하지 않은 환자의 유지요법 비교이며 모든 폐암·치료 차수로 일반화하지 않습니다. 회사 발표의 임상 결과와 새로운 적응증 허가를 구분합니다. 국내 바이오 전체 동반 수혜는 직접 제품·기술 연계 확인 없이는 확정하지 않습니다.</p><p>원문: <a href="https://www.amgen.com/newsroom/press-releases/2026/10/imdelltra-in-combination-with-imfinzi-reduced-risk-of-death-by-an-unprecedented-58-in-firstline-extensive-stage-small-cell-lung-cancer">원문 열기</a></p><p>구간 내 후보 2건 / 서로 다른 채널 1개. 최초·마지막 게시 시각(UTC): 2026-10-24T14:38:27+00:00 / 2026-10-24T14:38:33+00:00. 사건·기사 최초 보도·수정·수집 시각과 구분합니다.</p><h3>J&amp;J ERLEADA, 고위험 전립선암 수술 전후 요법의 PROTEUS 하위연구 발표</h3><p>분류: 임상·바이오 / 상태: 회사 원문 웹 확인 / 로컬 접근은 점검 화면</p><p>10월 24일 회사 원문은 408명 하위연구의 EFS HR 0.38(재발·사망 위험 62% 감소)을 제시합니다. 전체생존은 추가 추적 중이며 해당 조기 전립선암 용도는 규제 승인 전입니다. 기존 ASCO 주시험 결과와 이번 하위연구를 중복 신규 성과로 합산하지 않습니다. 장기 추적·안전성·승인이 가치 확인 조건입니다.</p><p>원문: <a href="https://www.jnj.com/media-center/press-releases/johnson-johnson-announces-erleada-apalutamide-treatment-before-and-after-surgery-reduces-risk-of-recurrence-or-death-by-62-versus-surgery-alone-in-high-risk-prostate-cancer">원문 열기</a></p><p>구간 내 후보 1건 / 서로 다른 채널 1개. 최초·마지막 게시 시각(UTC): 2026-10-24T12:59:36+00:00 / 2026-10-24T12:59:36+00:00. 사건·기사 최초 보도·수정·수집 시각과 구분합니다.</p><h3>AZ 방광암 IMFINZI·엔포투맙 병용 결과 발표 후보</h3><p>분류: 임상·바이오 / 상태: 공식 검색 목록과 페이지 스냅샷 차이 / 수치 확인 대기</p><p>회사 미디어센터 검색에 24일 발표가 노출됐으나 실제 페이지 스냅샷은 최신 목록과 달라 상세 원문 검증을 마치지 못했습니다. 재발 49%·사망 42% 감소라는 속보는 확인 대기 수치로 분류하고 임상 성공·허가 확정으로 사용하지 않습니다. 다른 소세포폐암 병용시험과 별개입니다.</p><p>원문: <a href="https://www.astrazeneca.com/media-centre.html?pageNumber=4">원문 열기</a></p><p>구간 내 후보 1건 / 서로 다른 채널 1개. 최초·마지막 게시 시각(UTC): 2026-10-24T15:17:30+00:00 / 2026-10-24T15:17:30+00:00. 사건·기사 최초 보도·수정·수집 시각과 구분합니다.</p><h3>목표주가 변경 한 번에 정리: 풍산 KB 14만원→11만2천원, 이달 초 하향 재안내</h3><p>분류: 목표주가 변경 / 상태: 원기사 인용 / 증권사 보고서 독립 대조 미완료</p><p>이번 기사에 인용된 풍산 목표가는 20% 하향 계산(112000/140000−1)이며 오늘 새 상향으로 취급하지 않습니다. 3분기 방산 매출 3500억~3680억원은 증권사 추정이고 회사 목표 4153억원과 구분합니다. 납품·검수 지연과 4분기 인식 전망은 계약 취소나 실적 확정이 아닙니다. 이번 원문 검토에서 새로 검증한 목표주가 상향 목록을 임의로 만들지 않았습니다. 개별 종목 카톡을 보내지 않고 이 절로 묶었습니다.</p><p>원문: <a href="https://n.news.naver.com/article/215/0001270343">원문 열기</a></p><p>구간 내 후보 1건 / 서로 다른 채널 1개. 최초·마지막 게시 시각(UTC): 2026-10-24T12:05:46+00:00 / 2026-10-24T12:05:46+00:00. 사건·기사 최초 보도·수정·수집 시각과 구분합니다.</p><h3>삼성전자 2027년 주당 배당 1만2천원 전망, 회사 확정 배당 아님</h3><p>분류: 전망과 확정 구분 / 상태: 원기사 확인 / 분석가 가정</p><p>25일 01:00 기사·03:41 수정 보도의 수치는 유튜브 출연 분석가의 실적·배당 가정입니다. 주가 21만원 가정 수익률과 함께 제시된 전망을 확정 지급액·수익률로 사용하지 않습니다. 회사의 배당 정책·실적·이사회 결정이 확인 조건이고 실적·환원 비율이 달라지면 전망도 바뀝니다.</p><p>원문: <a href="https://www.newsis.com/view/NISX20261024_0003839410">원문 열기</a></p><p>구간 내 후보 1건 / 서로 다른 채널 1개. 최초·마지막 게시 시각(UTC): 2026-10-24T17:51:08+00:00 / 2026-10-24T17:51:08+00:00. 사건·기사 최초 보도·수정·수집 시각과 구분합니다.</p><h3>미래에셋의 스페이스X 투자·국내 증시 자금 흐름 보도, 평가와 실제 보유 구분</h3><p>분류: 자금 흐름·검증 대기 / 상태: 기사 확인 / 공식 통계·구조 추가 대조 필요</p><p>국내 투자자 손실·외국인 및 기관 매도·레버리지 ETF 순매수 기사는 기간이 다른 누적·평가 자료입니다. SOXL 매수 규모는 상승 확률이나 순이익의 증거가 아닙니다. 미래에셋 관련 보유 0주·책임 논란 기사도 투자 구조와 규제 판단 원문 독립 확인 전 회사 위법 확정으로 표현하지 않습니다. 한국은행 경상수지·저PBR 표시제 기사는 공식 통계·규정 추가 대조가 필요합니다.</p><p>원문: <a href="https://n.news.naver.com/article/003/0014276027">원문 열기</a> | <a href="https://n.news.naver.com/article/421/0009247850">원문 열기</a> | <a href="https://www.news2day.co.kr/article/20261024500010">원문 열기</a> | <a href="https://n.news.naver.com/article/421/0009247853">원문 열기</a> | <a href="https://n.news.naver.com/article/001/0016398359">원문 열기</a> | <a href="https://n.news.naver.com/article/001/0016398395">원문 열기</a> | <a href="https://www.dt.co.kr/article/12090986?ref=naver">원문 열기</a> | <a href="https://n.news.naver.com/article/001/0016398398">원문 열기</a></p><p>구간 내 후보 4건 / 서로 다른 채널 1개. 최초·마지막 게시 시각(UTC): 2026-10-24T20:55:35+00:00 / 2026-10-24T21:15:18+00:00. 사건·기사 최초 보도·수정·수집 시각과 구분합니다.</p><h3>AWS, 2027년까지 클라우드 용량 매진 보도…CEO 발언 원문 접근 실패</h3><p>분류: 해외 기업 / 상태: 원문 접근 실패 / 2차 해설</p><p>Reuters URL 접근에 실패해 2027년까지 매진이라는 CEO 발언을 독립 확인하지 못했습니다. 6개월 컴퓨팅 공급 부족 주장과 골드만 AI 포지션 축소 해설 역시 단일 속보·2차 기사입니다. AI 수요 기대와 투자 축소 위험을 병기하되 확정 수주·매출이나 반도체 전체 실적 상승으로 사용하지 않습니다.</p><p>원문: <a href="https://wallstreetcn.com/articles/3784388#from=ios">원문 열기</a> | <a href="https://www.reuters.com/business/retail-consumer/amazon-cloud-capacity-sold-out-through-2027-ceo-jassy-says-2026-10-23/">원문 열기</a></p><p>구간 내 후보 3건 / 서로 다른 채널 2개. 최초·마지막 게시 시각(UTC): 2026-10-24T11:06:19+00:00 / 2026-10-24T14:54:09+00:00. 사건·기사 최초 보도·수정·수집 시각과 구분합니다.</p><h3>기타 확인 대기: 디지털자산 제도·통신 제한·사이버 사고·인수 후보</h3><p>분류: 추가 확인 큐 / 상태: 속보 후보 / 공식 원문 검증 미완료</p><p>스테이블코인 외환법 개정은 연내 추진 보도이며 통과법이 아닙니다. 스타링크 제한 해제는 실행·예정 시제가 섞여 공식 공지 확인 전 전면 해제로 확정하지 않습니다. Swell 입출금 중단과 Keystone 고객정보 사고는 서로 다른 사건이고 개인키·전체 자산 유출로 확대하지 않습니다. Couche-Tard의 Cumberland 제안은 인수 완료가 아니며 튀르키예 드론 생산 목표는 신규 수주가 아닙니다. 젠슨 황의 카자흐스탄 회동, 이스라엘 선거 여론조사·정치 발언도 원문 확인 대기로 보존했습니다.</p><p>구간 내 후보 15건 / 서로 다른 채널 2개. 최초·마지막 게시 시각(UTC): 2026-10-24T11:15:39+00:00 / 2026-10-24T20:21:12+00:00. 사건·기사 최초 보도·수정·수집 시각과 구분합니다.</p><h3>메르츠 독일 총리의 러시아 위협 발언, 동일 발언 재인용</h3><p>분류: 외교·안보 / 상태: 발언 재인용 / 공식 원문 확인 대기</p><p>서로 다른 속보 3개는 러시아가 독일의 자유·안정을 위협한다는 같은 발언 후보입니다. 새 정책·제재 결정과 구분하며 공식 연설 원문 대조 미완료입니다. 기존 방한 일정과 이번 발언은 별개입니다.</p><p>구간 내 후보 3건 / 서로 다른 채널 1개. 최초·마지막 게시 시각(UTC): 2026-10-24T10:10:33+00:00 / 2026-10-24T10:26:37+00:00. 사건·기사 최초 보도·수정·수집 시각과 구분합니다.</p><h3>미 대사관 이라크 최고 여행경보 유지·긴급서비스 제한 안내</h3><p>분류: 외교·안보 / 상태: 대사관 인용 속보 / 신규 상향 아님</p><p>최고 여행경보를 유지한다는 안내이며 이번에 처음 상향됐다고 표현하지 않습니다. 관련 3개 속보는 같은 경보의 설명입니다. 중동 여러 국가 경보와 베이루트 특정 지역 주의보 역시 강제 철수 명령으로 바꾸지 않았습니다. 최신 대사관 원문 확인이 필요합니다.</p><p>구간 내 후보 5건 / 서로 다른 채널 1개. 최초·마지막 게시 시각(UTC): 2026-10-24T12:38:59+00:00 / 2026-10-24T13:44:56+00:00. 사건·기사 최초 보도·수정·수집 시각과 구분합니다.</p><h3>우크라이나 스타링크·스타쉴드 제한 복구 발표 후보, 완료·예정 시제 충돌</h3><p>분류: 외교·안보 / 상태: 당사자 발표 인용 / 완료 범위 확인 대기</p><p>국방부 복구 발표 인용과 젤렌스키의 완전 해제·해제할 것이라는 속보가 섞여 있습니다. 동일 서비스 복구 사건의 후속으로 보존하되 모든 단말·서비스 정상화를 확인했다고 하지 않습니다. 실제 운용·공식 공지 대조가 필요하며 스타쉴드의 미국 정부 통제 문제와도 구분합니다.</p><p>구간 내 후보 6건 / 서로 다른 채널 2개. 최초·마지막 게시 시각(UTC): 2026-10-24T11:15:39+00:00 / 2026-10-24T20:21:12+00:00. 사건·기사 최초 보도·수정·수집 시각과 구분합니다.</p><h2>공개 일정 요약</h2><p>2026-10-25 리야드 공항 터미널 변경 공지 보도. UN 세계데이터포럼의 종전 2026-11-09~12 일정은 2027년으로 연기됐고 새 날짜는 미정입니다. 날짜순 전체 이월 검토표와 IR·재공시 감사 기록은 미국 섹터·일정 별도 보고서에 정리했습니다. 미검토 일정 후보 2,496건을 미검토 상태로 보존합니다. 확인된 일정은 아래와 같고 전체 검토 완료를 뜻하지 않으며, 사용자 요청에 따라 발송을 진행합니다.</p><h2>검증 한계</h2><p>전체 수집 게시물을 검토한 것과 모든 사실의 독립 검증 완료는 다릅니다. 단신·시세·생활소식 및 원천 미확인 후보는 검토 장부에 남겼습니다. 제목만 응답한 공식 페이지·본문 접근 거부·수정 시점이 다른 페이지를 완전한 본문 검증으로 세지 않았습니다. 기존 미발송 11개 판은 이번 판 전송으로 해결됐다고 처리하지 않으며, 독립 분석 완료 cutoff를 임의로 높이지 않습니다.</p></article><h2>전체 본문 PNG</h2><img src="news_01.png" alt="뉴스 본문 1" loading="lazy"><img src="news_02.png" alt="뉴스 본문 2" loading="lazy"><img src="news_03.png" alt="뉴스 본문 3" loading="lazy"><img src="news_04.png" alt="뉴스 본문 4" loading="lazy"><img src="news_05.png" alt="뉴스 본문 5" loading="lazy"><img src="news_06.png" alt="뉴스 본문 6" loading="lazy"><img src="news_07.png" alt="뉴스 본문 7" loading="lazy"><img src="news_08.png" alt="뉴스 본문 8" loading="lazy"><img src="news_09.png" alt="뉴스 본문 9" loading="lazy"><img src="news_10.png" alt="뉴스 본문 10" loading="lazy"><img src="news_11.png" alt="뉴스 본문 11" loading="lazy"><img src="news_12.png" alt="뉴스 본문 12" loading="lazy"></main></html>
